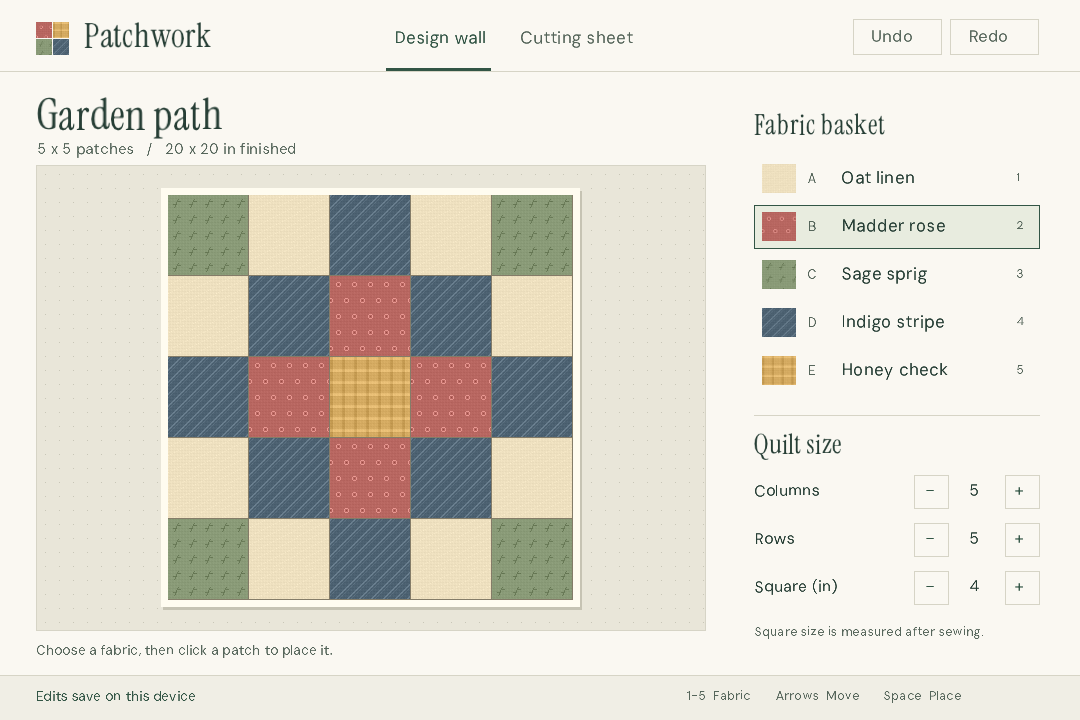
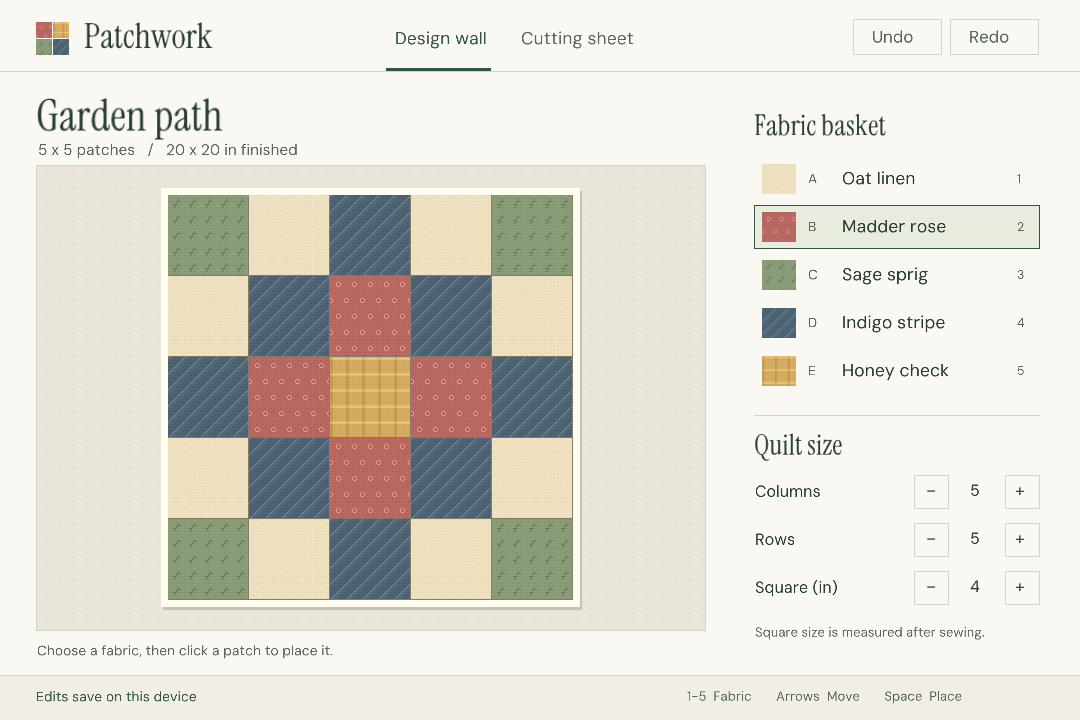
Render the quilt with OpenGL and WebGL and verify fabric colors

diff --git a/tests/web_e2e.py b/tests/web_e2e.py
@@ -16,22 +16,35 @@ class QuietHandler(SimpleHTTPRequestHandler):
         pass
 
 
-def run(directory, check_file):
+def run(directory, check_file, renderer):
     with ThreadingHTTPServer(("127.0.0.1", 0), partial(QuietHandler, directory=directory)) as server:
         thread = Thread(target=server.serve_forever, daemon=True)
         thread.start()
         try:
             with sync_playwright() as pw:
-                browser = pw.chromium.launch(executable_path=os.getenv("CHROMIUM_PATH"))
+                args = ["--disable-webgl"] if renderer == "software" else []
+                browser = pw.chromium.launch(executable_path=os.getenv("CHROMIUM_PATH"), args=args)
                 page = browser.new_page(viewport={"width": 1080, "height": 720}, accept_downloads=True)
                 errors = []
                 page.on("pageerror", lambda error: errors.append(str(error)))
-                page.goto(f"http://127.0.0.1:{server.server_port}/")
                 canvas = page.locator("#canvas")
 
-                def ready():
-                    page.locator("#loading").wait_for(state="detached")
-                    canvas.wait_for()
+                def open_plan(url=None):
+                    with page.expect_console_message(lambda msg: msg.text == f"Patchwork renderer: {renderer}"):
+                        if url is None:
+                            page.reload()
+                        else:
+                            page.goto(url)
+                    if renderer == "opengles2":
+                        assert canvas.evaluate("""canvas => {
+                            const gl = canvas.getContext('webgl') || canvas.getContext('webgl2');
+                            return gl && !gl.isContextLost();
+                        }""")
+
+                def center_patch():
+                    # Sample the interior, away from the cursor outline and seams.
+                    page.evaluate("() => new Promise(done => requestAnimationFrame(() => requestAnimationFrame(done)))")
+                    return page.screenshot(clip={"x": 362, "y": 390, "width": 16, "height": 16})
 
                 def click_at(x, y):
                     b = canvas.bounding_box()
@@ -41,18 +54,20 @@ def run(directory, check_file):
                     page.wait_for_function("text => (localStorage.getItem('patchwork.plan.v1') || '').includes(text)",
                                            arg=text, timeout=8000)
 
-                ready()
+                open_plan(f"http://127.0.0.1:{server.server_port}/")
+                honey = center_patch()
                 click_at(850, 228)
                 click_at(370, 398)
                 saved_contains("DBBBD")
+                assert center_patch() != honey
                 click_at(899, 36)
                 saved_contains("DBEBD")
+                assert center_patch() == honey
                 click_at(995, 36)
                 saved_contains("DBBBD")
                 page.keyboard.press("c")
                 saved_contains("5 6 4")
-                page.reload()
-                ready()
+                open_plan()
                 click_at(585, 36)
                 with page.expect_download(timeout=8000) as event:
                     click_at(885, 583)
@@ -62,13 +77,11 @@ def run(directory, check_file):
                 assert "30 squares at 4.5 x 4.5 in" in sheet and "24 x 20 in" in sheet
                 assert "D B B B D A" in sheet and "Madder rose     5" in sheet
                 page.evaluate("localStorage.setItem('patchwork.plan.v1', 'broken')")
-                page.reload()
-                ready()
+                open_plan()
                 page.keyboard.press("Space")
                 assert page.evaluate("localStorage.getItem('patchwork.plan.v1')") == "broken"
                 if check_file:
-                    page.goto(Path(directory, "index.html").as_uri())
-                    ready()
+                    open_plan(Path(directory, "index.html").as_uri())
                     click_at(585, 36)
                     with page.expect_download(timeout=8000) as event:
                         click_at(885, 583)
@@ -78,10 +91,11 @@ def run(directory, check_file):
         finally:
             server.shutdown()
             thread.join()
-    print("Browser journey passed: paint, undo, redo, resize, reload, download, preserve a damaged plan.")
+    print(f"Browser journey passed with {renderer}: paint, undo, redo, resize, reload and download.")
 
 
 if __name__ == "__main__":
     with tempfile.TemporaryDirectory() as directory:
         shutil.copyfile(Path(sys.argv[1], "index.html"), Path(directory, "index.html"))
-        run(directory, "--also-open-file" in sys.argv[2:])
+        run(directory, "--also-open-file" in sys.argv[2:], "opengles2")
+        run(directory, False, "software")

diff --git a/tests/desktop_e2e.py b/tests/desktop_e2e.py
@@ -76,14 +76,18 @@ else:
 def run(executable):
     with tempfile.TemporaryDirectory() as temp:
         plan = Path(temp, "topper.pw")
-        env = dict(os.environ, SDL_RENDER_DRIVER="software")
+        log = Path(temp, "startup.log")
+        env = os.environ.copy()
+        env.pop("SDL_RENDER_DRIVER", None)
         if sys.platform != "win32":
             env["SDL_VIDEO_DRIVER"] = "x11"
         for first_visit in [True, False]:
-            process = subprocess.Popen([executable, "--project", str(plan)], env=env)
+            with log.open("wb") as output:
+                process = subprocess.Popen([executable, "--project", str(plan)], env=env,
+                                           stdout=output, stderr=subprocess.STDOUT)
             try:
                 def ready():
-                    assert process.poll() is None, "The planner exited before its window opened"
+                    assert process.poll() is None, log.read_text(errors="replace")
                     return window_for(process.pid)
                 window = until(ready, "the design wall")
                 if first_visit:
@@ -106,6 +110,8 @@ def run(executable):
                     assert "24 x 20 in" in text and "30 squares at 4.5 x 4.5 in" in text
                     assert "D B B B D A" in text and "Madder rose     5" in text
                 close(window, process)
+                startup = log.read_text(errors="replace")
+                assert "Patchwork renderer: opengl" in startup.splitlines(), startup
             finally:
                 if process.poll() is None:
                     process.kill()

diff --git a/src/app.c b/src/app.c
@@ -3,7 +3,14 @@
 #define SDL_MAIN_USE_CALLBACKS 1
 #define SDL_MAIN_NOIMPL
 #include <SDL3/SDL_main.h>
+#include <stdio.h>
 #include <string.h>
+
+#ifdef __EMSCRIPTEN__
+static const char render_drivers[] = "opengles2,software";
+#else
+static const char render_drivers[] = "opengl,opengles2,software";
+#endif
 
 static const char saved[] = "Saved on this device";
 static const char protected_msg[] = "Could not read the saved plan. Original preserved.";
@@ -114,6 +121,7 @@ SDL_AppResult SDL_AppInit(void **appstate, int argc, char *argv[])
     App *a = SDL_calloc(1, sizeof *a);
     *appstate = a;
     SDL_SetHint(SDL_HINT_MAIN_CALLBACK_RATE, "30");
+    SDL_SetHintWithPriority(SDL_HINT_RENDER_DRIVER, render_drivers, SDL_HINT_DEFAULT);
     if (!a || !SDL_Init(SDL_INIT_VIDEO) ||
         !SDL_CreateWindowAndRenderer("Patchwork", WALL_WIDTH, WALL_HEIGHT, SDL_WINDOW_RESIZABLE,
                                      &a->window, &a->renderer) ||
@@ -144,6 +152,8 @@ SDL_AppResult SDL_AppInit(void **appstate, int argc, char *argv[])
     a->status = a->protected_plan ? protected_msg : load == STORE_OK ? saved : "Edits save on this device";
     a->fabric = 1;
     a->dirty = true;
+    printf("Patchwork renderer: %s\n", SDL_GetRendererName(a->renderer));
+    fflush(stdout);
     return SDL_APP_CONTINUE;
 }
 

diff --git a/src/draw.c b/src/draw.c
@@ -69,14 +69,15 @@ static int motif(int f, int x, int y)
     case 2: /* A stem with a pair of leaves. */
         return ((dx == -dy / 2 && abs(dy) < 5) || (dy == -2 && dx >= 1 && dx < 5) ||
                 (dy == 1 && dx < 0 && dx > -4)) * -33;
-    case 3: return ((x + y) % 12 < 2) * 29 + ((x + y) % 12 == 4) * 14;
-    default: return (x % 12 < 3) * -17 + (y % 12 < 3) * 20;
+    case 3: return ((x + y) % 16 < 2) * 29 + ((x + y) % 16 == 4) * 14;
+    default: return (x % 16 < 3) * -17 + (y % 16 < 3) * 20;
     }
 }
 
 static SDL_Texture *fabric_tile(SDL_Renderer *renderer, int f)
 {
-    SDL_Surface *s = SDL_CreateSurface(48, 48, SDL_PIXELFORMAT_ARGB8888);
+    /* WebGL 1 requires power-of-two textures for repeating fabric patterns. */
+    SDL_Surface *s = SDL_CreateSurface(64, 64, SDL_PIXELFORMAT_ARGB8888);
     if (!s) return NULL;
     for (int y = 0; y < s->h; ++y) {
         Uint32 *pixels = (Uint32 *)((Uint8 *)s->pixels + y * s->pitch);

diff --git a/tests/unit.c b/tests/unit.c
@@ -202,6 +202,7 @@ int main(void)
     CHECK(SDL_asprintf(&bad, "%s/missing/plan", path) > 0);
     test_storage(path);
     App *a = start(path);
+    CHECK(strcmp(SDL_GetRendererName(a->renderer), "software") == 0);
     test_inputs(a); test_drawing(a);
     SDL_AppQuit(a, SDL_APP_SUCCESS);
     a = start(path); CHECK(a->history.steps[0].cell[2][2] == 1);

diff --git a/README.md b/README.md
@@ -11,7 +11,7 @@ A design wall for a home quilter. Match five scraps from your fabric basket to t
 3. Open **Cutting sheet**. For the original 20 × 20 inch topper, cut 25 squares at **4½ × 4½ inches**. The extra half inch leaves a quarter-inch seam at both edges of each dimension. Each fabric has a letter and a quantity. The row map shows where each piece goes.
 4. Choose **Copy cutting sheet** on a computer and paste it into a document to print. The web version offers **Download cutting sheet** as a text file. Edits save automatically. Reopen the app in the same browser or desktop account to pick up where you left off.
 
-The first version covers straight-sewn squares for the quilt top. Backing, batting and binding are separate materials. The [OpenSpec design](openspec/changes/archive/2026-11-22-add-quilt-design-wall/design.md) describes a possible 3D table preview and a first sewing session to try with the quilter.
+The first version covers straight-sewn squares for the quilt top. Backing, batting and binding are separate materials. The design wall and cutting sheet use OpenGL on Windows and Linux and WebGL in the browser. The concept also describes an optional 3D table preview and a first sewing session to try with the quilter. [OpenSpec design](openspec/changes/archive/2026-11-22-add-quilt-design-wall/design.md)
 
 ## Run it
 
@@ -24,6 +24,8 @@ Download the matching artifact from a successful [build on main](https://github.
 | Web | Unzip the artifact and open `index.html` in a desktop browser. The HTML includes the application and fonts. Hosting the same file on a static server gives it a stable origin for saved plans. |
 
 The desktop app keeps the current quilt in SDL's per-user preference directory under `Patchwork/Planner/quilt.pw`. Launch `patchwork --project path/to/topper.pw` to work in a particular file. The browser saves in local storage. A damaged plan is preserved and the status bar reports the problem. On desktop, a fresh project path lets you keep working.
+
+SDL3 chooses desktop OpenGL first, then OpenGL ES where available. The Emscripten build uses SDL's OpenGL ES 2 renderer on a WebGL canvas. Both can fall back to software rendering when GL is unavailable. The startup log reports the selected backend. On desktop, setting `SDL_RENDER_DRIVER=software` explicitly selects software rendering.
 
 | Keyboard | Action |
 | --- | --- |
@@ -63,7 +65,7 @@ ctest --test-dir build-coverage --output-on-failure
 gcovr --root . --filter '^src/' --txt --fail-under-line 95 build-coverage/CMakeFiles/workroom.dir
 ```
 
-The desktop journey opens the real SDL window, edits a patch, checks undo and redo, adds a column, restarts the process and reads the resulting sheet from the clipboard. Linux uses Xvfb, xdotool and xclip. Windows uses Win32 window messages and the system clipboard. The web journey serves the compiled HTML on localhost and checks the actual downloaded sheet after a page reload.
+The desktop journey opens the real SDL window, verifies the OpenGL backend, edits a patch, checks undo and redo, adds a column, restarts the process and reads the resulting sheet from the clipboard. Linux uses Xvfb with GLX, xdotool and xclip. Windows uses Win32 window messages and the system clipboard. The Windows CI runner uses Mesa for OpenGL. The web journey checks the live WebGL context, compares pixels inside a patch before and after editing, and reads the downloaded sheet after a reload. It repeats the edit with WebGL disabled to exercise the software fallback.
 
 ```sh
 xvfb-run -a -s '-screen 0 1440x940x24' python3 tests/desktop_e2e.py build/app/patchwork

diff --git a/openspec/specs/quilt-planning/spec.md b/openspec/specs/quilt-planning/spec.md
@@ -58,3 +58,23 @@ The project SHALL build for Windows, Linux and Emscripten, enforce at least 95% 
 
 - **WHEN** the desktop application is launched or the WebAssembly application is loaded from HTTP in a browser
 - **THEN** automated input exercises editing, the cutting sheet and reopening the saved layout
+
+### Requirement: Draw the planner with OpenGL
+
+The planner SHALL prefer OpenGL for the design wall and cutting sheet on Windows and Linux and WebGL in the Emscripten build. It SHALL offer software rendering when a compatible GL context cannot be created.
+
+#### Scenario: Edit a quilt on an OpenGL desktop
+
+- **WHEN** the quilter opens Patchwork with a compatible desktop OpenGL driver and default settings
+- **THEN** SDL selects the OpenGL renderer and the quilter can edit the design and take the cutting sheet
+
+#### Scenario: Try a fabric in a WebGL browser
+
+- **WHEN** the quilter replaces the honey center with rose on a WebGL-capable browser
+- **THEN** the quilt is drawn on a WebGL canvas and the center changes visibly
+- **AND** Undo restores the honey patch
+
+#### Scenario: Open a quilt without GL
+
+- **WHEN** GL context creation is unavailable and the platform provides software rendering
+- **THEN** the quilter can edit a patch and take the cutting sheet using software rendering

diff --git a/openspec/changes/archive/2026-11-22-use-opengl-rendering/design.md b/openspec/changes/archive/2026-11-22-use-opengl-rendering/design.md
@@ -1,0 +1,7 @@
+## Decisions
+
+Use SDL's renderer selection at startup. On desktop, try OpenGL first and OpenGL ES second. Emscripten maps SDL's OpenGL ES 2 renderer to a WebGL context on the planner canvas. SDL handles textures, geometry, fonts and window resizing through the chosen renderer. Use its software backend as the compatibility fallback. Keep renderer selection at default hint priority so a user or headless test can request a specific driver. [SDL renderer selection](https://wiki.libsdl.org/SDL3/SDL_CreateRenderer) · [Emscripten OpenGL support](https://emscripten.org/docs/porting/multimedia_and_graphics/OpenGL-support.html)
+
+Use 64-by-64 fabric tiles so WebGL 1 can repeat each motif across large patches.
+
+For example, repainting the center of Garden Path should visibly turn honey into rose. Undo should bring back the honey fabric, and the cutting sheet should still count one honey patch. Exercise that edit on the actual graphics backend. The optional 3D table preview in the original concept can build on the same quilt model later.

diff --git a/openspec/changes/archive/2026-11-22-add-quilt-design-wall/design.md b/openspec/changes/archive/2026-11-22-add-quilt-design-wall/design.md
@@ -18,4 +18,4 @@ A first-time user should be able to change the center square, undo the change an
 
 Ask the quilter to replace a patch with a fabric from her scrap basket, close and reopen the planner, then point to the number and size of squares she would cut. If she wants to see the topper in her room, try an optional 3D preview using the existing grid as a texture on a table. If she needs to identify an exact print, try importing a fabric photograph first.
 
-The requested “OTL” integration needs its full name and intended role. If it means OpenTelemetry, a follow-up could measure failed saves and export times when diagnostics are enabled, leaving fabric names and layouts on the device. A text-layout library or a quilt interchange format would touch different parts of the application.
+The author subsequently clarified that “OTL” referred to OpenGL for graphics. The design wall and cutting sheet use SDL's OpenGL renderer on desktops and WebGL in browsers. [Current quilt-planning specification](../../../specs/quilt-planning/spec.md)

diff --git a/openspec/changes/archive/2026-11-22-use-opengl-rendering/specs/quilt-planning/spec.md b/openspec/changes/archive/2026-11-22-use-opengl-rendering/specs/quilt-planning/spec.md
@@ -1,0 +1,21 @@
+## ADDED Requirements
+
+### Requirement: Draw the planner with OpenGL
+
+The planner SHALL prefer OpenGL for the design wall and cutting sheet on Windows and Linux and WebGL in the Emscripten build. It SHALL offer software rendering when a compatible GL context cannot be created.
+
+#### Scenario: Edit a quilt on an OpenGL desktop
+
+- **WHEN** the quilter opens Patchwork with a compatible desktop OpenGL driver and default settings
+- **THEN** SDL selects the OpenGL renderer and the quilter can edit the design and take the cutting sheet
+
+#### Scenario: Try a fabric in a WebGL browser
+
+- **WHEN** the quilter replaces the honey center with rose on a WebGL-capable browser
+- **THEN** the quilt is drawn on a WebGL canvas and the center changes visibly
+- **AND** Undo restores the honey patch
+
+#### Scenario: Open a quilt without GL
+
+- **WHEN** GL context creation is unavailable and the platform provides software rendering
+- **THEN** the quilter can edit a patch and take the cutting sheet using software rendering

diff --git a/openspec/changes/archive/2026-11-22-use-opengl-rendering/proposal.md b/openspec/changes/archive/2026-11-22-use-opengl-rendering/proposal.md
@@ -1,0 +1,19 @@
+## Why
+
+The requested graphics technology is OpenGL. Explicit renderer selection makes the same C drawing code exercise OpenGL on desktops and WebGL in browsers.
+
+## What Changes
+
+- Prefer desktop OpenGL on Windows and Linux and WebGL through SDL's OpenGL ES renderer in Emscripten.
+- Keep a software fallback for devices without a usable GL driver.
+- Check the active backend while exercising an edit, undo and the cutting sheet.
+
+## Capabilities
+
+### Modified Capabilities
+
+- `quilt-planning` gains a rendering requirement for the design wall and cutting sheet.
+
+## Impact
+
+The change affects SDL startup, the platform tests and the build instructions.

diff --git a/openspec/changes/archive/2026-11-22-use-opengl-rendering/tasks.md b/openspec/changes/archive/2026-11-22-use-opengl-rendering/tasks.md
@@ -1,0 +1,9 @@
+## 1. Graphics
+
+- [x] 1.1 Select the desktop and browser GL renderers and retain software compatibility.
+- [x] 1.2 Resolve the earlier “OTL” question and document the rendering choice.
+
+## 2. Verification
+
+- [x] 2.1 Verify the active OpenGL renderer in desktop tests and inspect the live WebGL canvas in Chromium.
+- [x] 2.2 Exercise software fallback, validate the specification and enforce the coverage and platform checks in CI.
